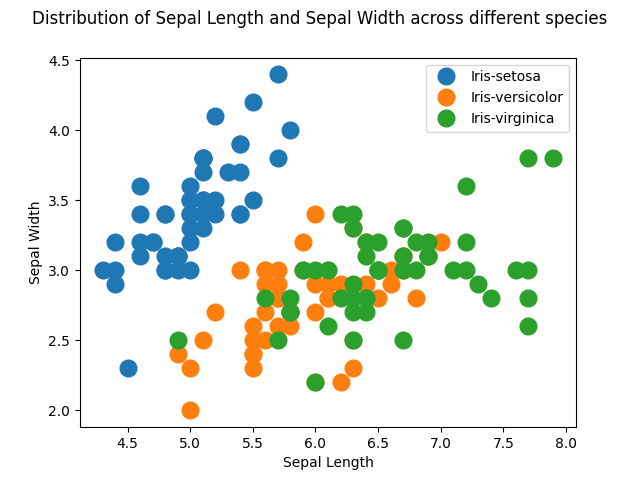
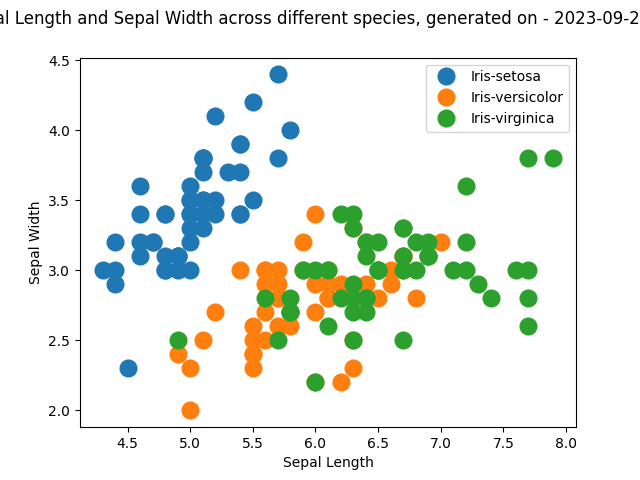
Updated these files Automatically

Changed region(s): [[0.0, 0.0, 1.0, 0.0625]]

diff --git a/Resources/Summary.md b/Resources/Summary.md
@@ -10,7 +10,7 @@
 |       7.9      |      4.4      |        6.9     |      2.5      |
 
 
-2023-09-20 19:29:06.562142
+2023-09-20 19:32:13.532119
 
 
 ![Graph](PlotImage.png)
